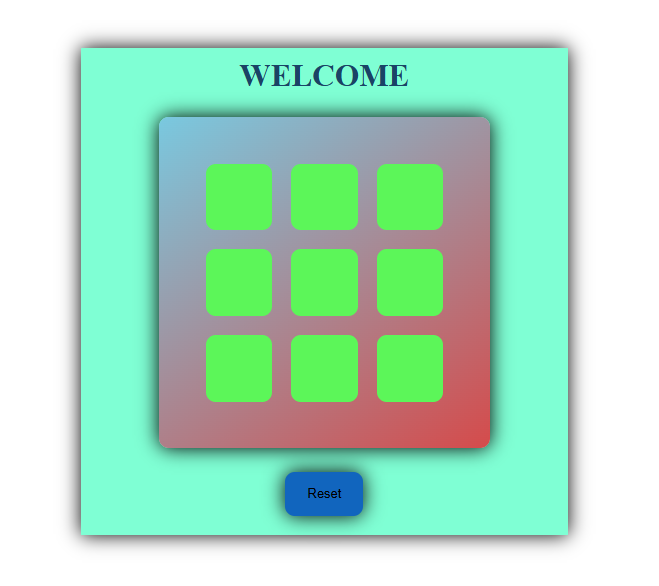
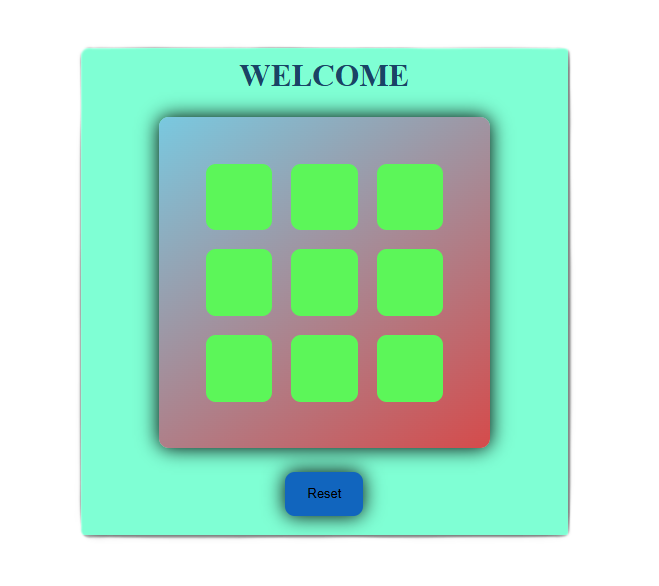
change in theme

Changed region(s): [[0.091, 0.0614, 0.8801, 0.9522]]

diff --git a/script.js b/script.js
@@ -5,7 +5,26 @@ const mobileNav = document.querySelector('#mobileNav');
 const MenuLiMoblie = document.querySelectorAll('.MenuLiMoblie');
 let nav = document.querySelector('.navClass')
 nav.classList.remove('shadow');
-
+const toggleBtn = document.getElementById("toggle-btn");
+const iconToggleMoon = document.querySelector(".fa-moon"),
+iconToggleSun = document.querySelector(".fa-sun");
+iconToggleSun.classList.add('hide');
+toggleBtn.addEventListener('click', ()=> {
+  document.body.classList.toggle('dark-mode');
+  iconToggleSun.classList.toggle('hide');
+  iconToggleMoon.classList.toggle('hide');
+  
+  if(document.body.classList.contains('dark-mode')){
+    localStorage.setItem("theme", "dark");
+  }else {
+    localStorage.setItem("theme", "light");
+  }
+});
+window.addEventListener("load", ()=> {
+  if(localStorage.getItem("theme") === "dark"){
+    document.body.classList.add("dark-mode");
+  }
+});
 // function updateCSSVariable(variable, value) {
 //     document.documentElement.style.setProperty(variable, value);
 // }
@@ -31,52 +50,52 @@ nav.classList.remove('shadow');
 //     }
 // })
 
-function updateCSSVariable(variable, value) {
-  document.documentElement.style.setProperty(variable, value);
-}
+// function updateCSSVariable(variable, value) {
+//   document.documentElement.style.setProperty(variable, value);
+// }
 
-function calculateLuminance(hex) {
-  const rgb = hex.match(/^#([0-9a-f]{2})([0-9a-f]{2})([0-9a-f]{2})$/i);
-  const r = parseInt(rgb[1], 16) / 255;
-  const g = parseInt(rgb[2], 16) / 255;
-  const b = parseInt(rgb[3], 16) / 255;
+// function calculateLuminance(hex) {
+//   const rgb = hex.match(/^#([0-9a-f]{2})([0-9a-f]{2})([0-9a-f]{2})$/i);
+//   const r = parseInt(rgb[1], 16) / 255;
+//   const g = parseInt(rgb[2], 16) / 255;
+//   const b = parseInt(rgb[3], 16) / 255;
 
-  const toLinear = (c) => (c <= 0.03928 ? c / 12.92 : Math.pow((c + 0.055) / 1.055, 2.4));
-  const lr = toLinear(r);
-  const lg = toLinear(g);
-  const lb = toLinear(b);
+//   const toLinear = (c) => (c <= 0.03928 ? c / 12.92 : Math.pow((c + 0.055) / 1.055, 2.4));
+//   const lr = toLinear(r);
+//   const lg = toLinear(g);
+//   const lb = toLinear(b);
 
-  return 0.2126 * lr + 0.7152 * lg + 0.0722 * lb;
-}
+//   return 0.2126 * lr + 0.7152 * lg + 0.0722 * lb;
+// }
 
-function isLightColor(hex) {
-  return calculateLuminance(hex) > 0.5;
-}
+// function isLightColor(hex) {
+//   return calculateLuminance(hex) > 0.5;
+// }
 
-navBarColor.addEventListener('input', () => {
-  const color = navBarColor.value;
-  // updateCSSVariable('--navBg', color);
-  updateCSSVariable('--bodyBg', color); 
+// navBarColor.addEventListener('input', () => {
+//   const color = navBarColor.value;
+//   // updateCSSVariable('--navBg', color);
+//   updateCSSVariable('--bodyBg', color); 
 
-  // Check luminance for readability
-  if (isLightColor(color)) {
-    updateCSSVariable('--navBg', '#218cea');
-      updateCSSVariable('--textColor', '#000000');
-      // updateCSSVariable('--bodyBg', '#ffffff');  // Light background when nav is light
-  } else {
-      updateCSSVariable('--navBg', '#1c1a1a');
-      updateCSSVariable('--textColor', '#ffffff');
-      // updateCSSVariable('--bodyBg', '#1c1a1a');  // Dark background when nav is dark
-  }
+//   // Check luminance for readability
+//   if (isLightColor(color)) {
+//     updateCSSVariable('--navBg', '#218cea');
+//       updateCSSVariable('--textColor', '#000000');
+//       // updateCSSVariable('--bodyBg', '#ffffff');  // Light background when nav is light
+//   } else {
+//       updateCSSVariable('--navBg', '#1c1a1a');
+//       updateCSSVariable('--textColor', '#ffffff');
+//       // updateCSSVariable('--bodyBg', '#1c1a1a');  // Dark background when nav is dark
+//   }
 
-  // Example of color scheme adjustments based on the selected nav color
-  if (color === "#4c2424") {  // Specific color lock
-      updateCSSVariable('--bodyBg', '#2b2b2b');
-      updateCSSVariable('--accentColor', '#ff7f7f');
-  } else if (color === "#38bdf8") {  // Another specific color lock
-      updateCSSVariable('--accentColor', '#ffd700');
-  }
-});
+//   // Example of color scheme adjustments based on the selected nav color
+//   if (color === "#4c2424") {  // Specific color lock
+//       updateCSSVariable('--bodyBg', '#2b2b2b');
+//       updateCSSVariable('--accentColor', '#ff7f7f');
+//   } else if (color === "#38bdf8") {  // Another specific color lock
+//       updateCSSVariable('--accentColor', '#ffd700');
+//   }
+// });
 
 MenuLiMoblie.forEach(element => {
     element.addEventListener('click', ()=> menuShowAndHide());

diff --git a/index.html b/index.html
@@ -23,7 +23,7 @@
     <nav class="navClass shadow">
       <ul>
         <li id="nameWEB">SSB</li>
-        <li><input type="color" id="navBar" /></li>
+        <li><button id="toggle-btn"><i class="fa-solid fa-moon"></i><i class="fa-solid fa-sun"></i></button></li>
 
       </ul>
       <ul id="PCNavUl">
@@ -41,7 +41,7 @@
       <ul>
         <li class="MenuLiMoblie"><a href="#home">Home</a></li>
         <li class="MenuLiMoblie"><a href="#About">About</a></li>
-        <li class="MenuLiMoblie"><a href="Contact">Contact</a></li>
+        <li class="MenuLiMoblie"><a href="#Contact">Contact</a></li>
         <Li class="MenuLiMoblie"><a href="#projects">Project</a></Li>
       </ul>
     </nav>
@@ -103,25 +103,7 @@
       <h1 class="skillH1">Skill</h1>
 
       <div class="concept">
-        <h1>Concept</h1>
-        <div class="progress">
-          <h4 class="progressHeading">CN</h4>
-          <div class="progressBar" style="--barWidth: 50%">
-            <span class="ProgresPercentage">50%</span>
-          </div>
-        </div>
-        <div class="progress">
-          <h4 class="progressHeading">DBMS</h4>
-          <div class="progressBar" style="--barWidth: 88%">
-            <span class="ProgresPercentage">88%</span>
-          </div>
-        </div>
-        <div class="progress">
-          <h4 class="progressHeading">Python</h4>
-          <div class="progressBar" style="--barWidth: 90%">
-            <span class="ProgresPercentage">90%</span>
-          </div>
-        </div>
+        <h1>Programming Language</h1>
         <div class="progress">
           <h4 class="progressHeading">Java</h4>
           <div class="progressBar" style="--barWidth: 50%">
@@ -129,9 +111,27 @@
           </div>
         </div>
         <div class="progress">
-          <h4 class="progressHeading">OS</h4>
-          <div class="progressBar" style="--barWidth: 88%">
-            <span class="ProgresPercentage">88%</span>
+          <h4 class="progressHeading">Python</h4>
+          <div class="progressBar" style="--barWidth: 20%">
+            <span class="ProgresPercentage">20%</span>
+          </div>
+        </div>
+        <div class="progress">
+          <h4 class="progressHeading">JavaScript</h4>
+          <div class="progressBar" style="--barWidth: 60%">
+            <span class="ProgresPercentage">60%</span>
+          </div>
+        </div>
+        <div class="progress">
+          <h4 class="progressHeading">C</h4>
+          <div class="progressBar" style="--barWidth: 70%">
+            <span class="ProgresPercentage">70%</span>
+          </div>
+        </div>
+        <div class="progress">
+          <h4 class="progressHeading">PHP</h4>
+          <div class="progressBar" style="--barWidth: 25%">
+            <span class="ProgresPercentage">25%</span>
           </div>
         </div>
       </div>
@@ -146,20 +146,20 @@
         </div>
         <div class="progress">
           <h4 class="progressHeading">DBMS</h4>
-          <div class="progressBar" style="--barWidth: 100%">
-            <span class="ProgresPercentage">100%</span>
+          <div class="progressBar" style="--barWidth: 60%">
+            <span class="ProgresPercentage">60%</span>
           </div>
         </div>
         <div class="progress">
-          <h4 class="progressHeading">Python</h4>
-          <div class="progressBar" style="--barWidth: 90%">
-            <span class="ProgresPercentage">90%</span>
-          </div>
-        </div>
-        <div class="progress">
-          <h4 class="progressHeading">Java</h4>
+          <h4 class="progressHeading">DSA</h4>
           <div class="progressBar" style="--barWidth: 50%">
             <span class="ProgresPercentage">50%</span>
+          </div>
+        </div>
+        <div class="progress">
+          <h4 class="progressHeading">UNIX</h4>
+          <div class="progressBar" style="--barWidth: 80%">
+            <span class="ProgresPercentage">80%</span>
           </div>
         </div>
         <div class="progress">

diff --git a/style.css b/style.css
@@ -9,15 +9,35 @@
 :root {
   --bgColor: rgb(149, 230, 250);
   --navBg: #218cea;
-
   --textColor: #000000;
   --bodyBg: #ffff;
   --WidthBar: 88%;
   --shadowColor: rgb(60, 251, 22);
   --accentColor: #38bdf8;
   --cardBg: #1c273e;
-}
 
+  --prog1: #fef608;
+  --prog2: #25fc50;
+  --prog3: #057c1d;
+
+}
+body.dark-mode{
+  --bgcolor: rgb(255, 253, 253);
+  --navBg: #000000;
+  --textColor: #ffffff;
+  --bodyBg: #222222;
+  --WidthBar: 88%;
+  --shadowColor: rgb(17, 25, 15);
+  --accentColor: #000000;
+  --cardBg: #000000;
+
+  --prog1: #2d2d2d9e;
+  --prog2: #88848491;
+  --prog3: #373736c0;
+}
+.hide {
+  display: none;
+}
 html {
   scroll-padding-top: 80px; /* adjust this based on your navbar height */
 }
@@ -80,7 +100,16 @@ a {
   text-decoration: none;
   color: var(--textColor);
 }
-
+#toggle-btn {
+  background: transparent;
+  border: none;
+}
+#toggle-btn i {
+  font-size: 20px;
+  background: transparent;
+  color: var(--textColor);
+  cursor: pointer;
+}
 body .navContainer nav ul #navBar {
   width: 25px;
   height: 25px;
@@ -590,7 +619,7 @@ body .navContainer nav ul #navBar:hover::before {
   height: 20px;
   font-size: 0.7em;
   position: absolute;
-  background: linear-gradient(90deg, #fef608,#25fc50, #057c1d);
+  background: linear-gradient(90deg, var(--prog1),var(--prog2), var(--prog3));
   font-weight: bold;
   border-radius: 15px; 
   z-index: 0;
